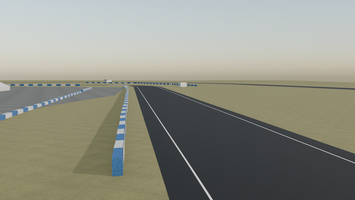
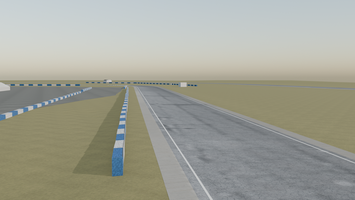
Menu pictures: draw road-wear roads as the game does (the black road fixed)
Every road-wear track's menu picture rendered by tools/menu_preview_blend.py showed the road BLACK. The split scene's
road-wear materials (tools/road_wear_blend.py step 7, ksPerPixelMultiMap_NMDetail) wire only txDiffuse's colour into
Base Color. txDiffuse is the macro (m0 x tone x (1 - wear)) shipped with alpha 0 = full detail, and Blender keeps a
straight-alpha image premultiplied, so alpha 0 came out black; txDetail (the stock asphalt / m0) was left unwired. The
game itself was never affected: only the pictures.

The fix (road_wear_look, run once after the scenes are loaded): for every material holding both a txDiffuse and a
txDetail image, the macro's alpha is read as data (alpha_mode CHANNEL_PACKED, so its colour is kept) and
Base Color = macro x mix(detail, 1, macro alpha), the detail sampled at UV x detailUVMultiplier from the build's own
data/road_wear.json (the material's row, else the top-level value). That is the game's own product (scripts/aerial/
road_wear.py: "macro x detail' at the median road texel is today's look exactly"). A track with no road wear renders
exactly as before. Each picture's sidecar gains a "road_wear" key naming the materials and multipliers.

Proved on Del Mar 0.2.7 against 0.2.5's pre-road-wear render from the same camera: the cracks sit on the same 4 m
grid and phase, the road patch's mean grey 110.5 vs 112.0, with the drawn rubber band on top.
[…]

Changed region(s): [[0.3718, 0.42, 1.0, 1.0], [0.6507, 0.42, 1.0, 0.45], [0.5887, 0.39, 0.6507, 0.42]]

diff --git a/tools/menu_preview_blend.py b/tools/menu_preview_blend.py
@@ -20,6 +20,7 @@ each planted tree's measured height and crown width; the game draws its TreeFX m
 import argparse
 import json
 import math
+import re
 import sys
 from pathlib import Path
 
@@ -85,6 +86,66 @@ for o in bpy.data.objects:
         o.hide_render = True
         hidden += 1
 print(f"[preview] hidden from render (ghost / collider / AC dummies): {hidden}")
+
+
+def road_wear_look():
+    """The road-wear surfaces (tools/road_wear_blend.py step 7: ksPerPixelMultiMap_NMDetail) drawn as the game draws
+    them. txDiffuse is the macro (m0 x tone x (1 - wear), RGBA, alpha 0 = full detail) and the game multiplies it by
+    txDetail (the stock asphalt / m0) at UV x detailUVMultiplier: rgb = macro.rgb x mix(detail.rgb, 1, macro.a)
+    (scripts/aerial/road_wear.py: "macro x detail' at the median road texel is today's look exactly").
+    The split scene wires only txDiffuse's colour into Base Color, and Blender keeps a straight-alpha image
+    premultiplied, so alpha 0 drew every road-wear road BLACK (PC, 2026-11-11, Del Mar 0.2.7; Pueblo 0.1.5, Aspen
+    0.1.6, Grand Junction 0.1.4 and Pikes Peak 0.2.3 went into AC that way). Here the macro's alpha is read as data
+    (channel packed, so its colour is kept) and Base Color is that product. Only a material holding both a txDiffuse
+    and a txDetail image is touched, so a track with no road wear renders exactly as before; the normal maps stay
+    unwired, as on every other surface here."""
+    f = DATA / "road_wear.json"
+    rec = json.loads(f.read_text(encoding="utf-8")) if f.exists() else {}
+    rows, top = rec.get("materials", {}), rec.get("detail_uv_multiplier")
+    done, macros = [], set()
+    for mat in bpy.data.materials:
+        nt = mat.node_tree if mat.use_nodes else None
+        if nt is None:
+            continue
+        tex = {nd.label: nd for nd in nt.nodes if nd.type == "TEX_IMAGE" and nd.image is not None}
+        bsdf = nt.nodes.get("Principled BSDF")
+        if "txDiffuse" not in tex or "txDetail" not in tex or bsdf is None:
+            continue
+        row = rows.get(mat.name) or rows.get(re.sub(r"\.\d{3}$", "", mat.name)) or {}
+        mult = row.get("props", {}).get("detailUVMultiplier", top)
+        if mult is None:
+            print(f"[preview] road wear: {mat.name} has txDiffuse + txDetail but no detailUVMultiplier in "
+                  f"{f.name}; left as it was")
+            continue
+        macro, det = tex["txDiffuse"], tex["txDetail"]
+        macro.image.alpha_mode = "CHANNEL_PACKED"
+        macros.add(macro.image.name)
+        uv = nt.nodes.new("ShaderNodeTexCoord")
+        sc_uv = nt.nodes.new("ShaderNodeVectorMath")
+        sc_uv.operation = "SCALE"
+        sc_uv.inputs["Scale"].default_value = float(mult)
+        nt.links.new(uv.outputs["UV"], sc_uv.inputs[0])
+        nt.links.new(sc_uv.outputs["Vector"], det.inputs["Vector"])
+        mix = nt.nodes.new("ShaderNodeMix")                      # mix(detail, 1, macro alpha)
+        mix.data_type, mix.blend_type = "RGBA", "MIX"
+        mul = nt.nodes.new("ShaderNodeMix")                      # macro x that
+        mul.data_type, mul.blend_type = "RGBA", "MULTIPLY"
+        sock = lambda socks, ident: next(s for s in socks if s.identifier == ident)
+        nt.links.new(macro.outputs["Alpha"], sock(mix.inputs, "Factor_Float"))
+        nt.links.new(det.outputs["Color"], sock(mix.inputs, "A_Color"))
+        sock(mix.inputs, "B_Color").default_value = (1.0, 1.0, 1.0, 1.0)
+        sock(mul.inputs, "Factor_Float").default_value = 1.0
+        nt.links.new(macro.outputs["Color"], sock(mul.inputs, "A_Color"))
+        nt.links.new(sock(mix.outputs, "Result_Color"), sock(mul.inputs, "B_Color"))
+        nt.links.new(sock(mul.outputs, "Result_Color"), bsdf.inputs["Base Color"])
+        done.append(f"{mat.name} (x{float(mult):g})")
+    if done:
+        print(f"[preview] road wear drawn as the game draws it (macro x detail at UV x detailUVMultiplier, the macro's "
+              f"alpha read as data): {len(done)} materials {', '.join(done)}; macros {sorted(macros)}")
+    return done
+
+
+ROAD_WEAR = road_wear_look()
 
 
 def road_bvh():
@@ -285,6 +346,9 @@ def shoot(name, eye, look, fov, station):
             "sky": "Nishita, strength 0.35, altitude 120 m, air 1.2, dust 1.5",
             "trees": (f"{N_STAND} stand-ins (trunk + ellipsoid crown at measured height and crown) from {A.standins}; the game draws its TreeFX models there" if N_STAND else "as in the kn5"),
             "render": f"EEVEE Next, AgX, exposure {A.exposure:+.1f} EV, {sc.render.resolution_x}x{sc.render.resolution_y}"}
+    if ROAD_WEAR:
+        side["road_wear"] = ("macro x detail at UV x detailUVMultiplier, the macro's alpha read as data (as the game "
+                             "draws ksPerPixelMultiMap_NMDetail): " + ", ".join(ROAD_WEAR))
     Path(f"{OUT}_{name}.json").write_text(json.dumps(side, indent=2), encoding="utf-8")
     print(f"[preview] {name}: eye ({eye[0]:.1f}, {eye[1]:.1f}, {eye[2]:.1f}) look ({look[0]:.1f}, {look[1]:.1f}, "
           f"{look[2]:.1f}) fov {fov} sun az {SUN_AZ} el {SUN_EL} -> {sc.render.filepath}")
